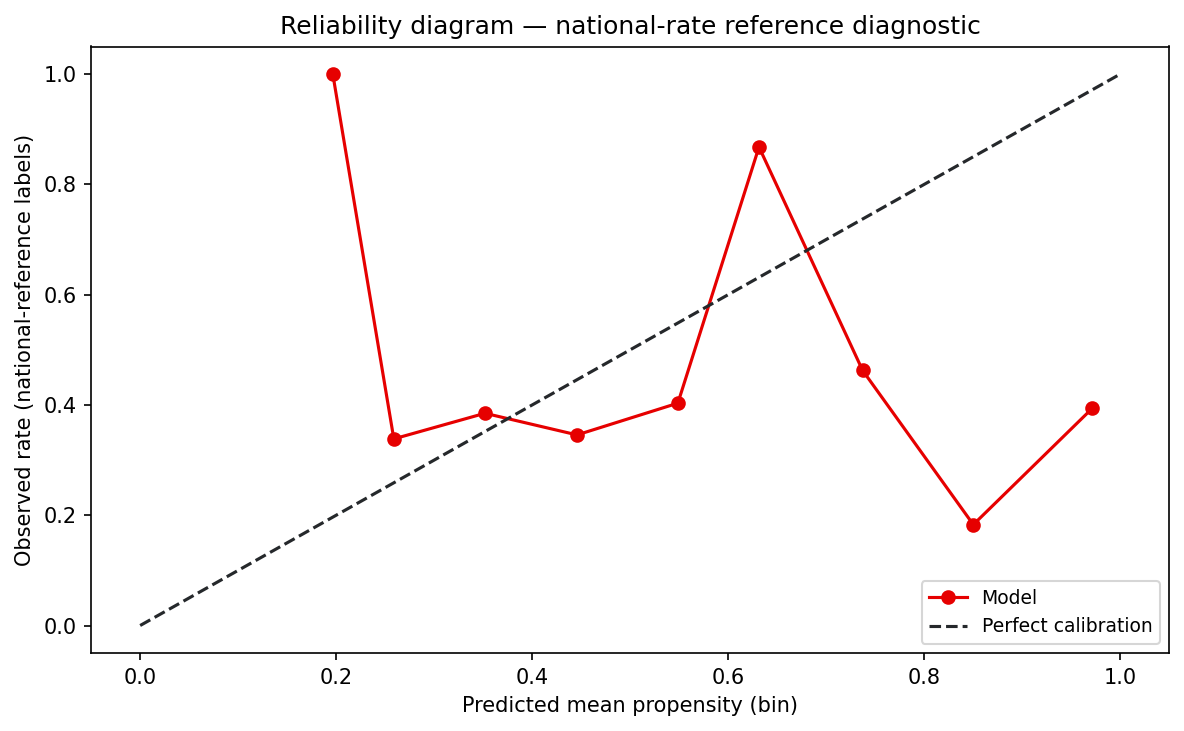
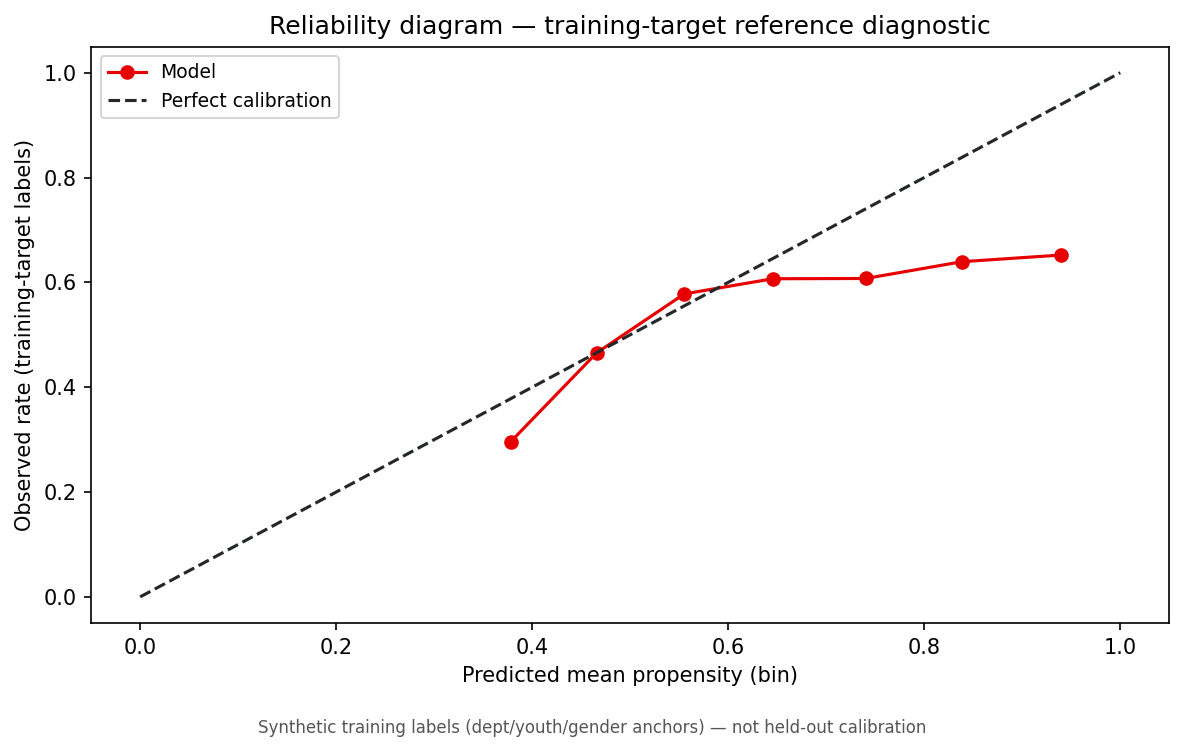
F-075: reliability diagram uses training-target labels.
Replace Bernoulli national-rate reference with synthetic_training_reference_labels
and stamp disclaimer on static reliability PNG.

diff --git a/scripts/check_reliability_label_semantics.py b/scripts/check_reliability_label_semantics.py
@@ -1,0 +1,92 @@
+#!/usr/bin/env python3
+"""Verification script for F-075: reliability diagnostics use training-target labels.
+
+Bernoulli national-rate coin-flips against dept-structured propensity scores
+produce wild bin swings (AUD-REL). Production paths must use the same synthetic
+label generator as propensity fit, and static PNGs must carry a disclaimer footer.
+"""
+
+from __future__ import annotations
+
+import re
+from pathlib import Path
+
+from _governance_check import REPO_ROOT, gate
+
+ROOT = REPO_ROOT
+DASHBOARD = ROOT / "module_a_population_segmentation" / "app" / "streamlit_dashboard.py"
+REPORT_CHARTS = ROOT / "scripts" / "generate_module_a_report_charts.py"
+RELIABILITY_PNG = ROOT / "reports" / "module_a" / "reliability_diagram.png"
+PROP_PATH = (
+    ROOT
+    / "module_a_population_segmentation"
+    / "src"
+    / "population_segmentation"
+    / "pipeline"
+    / "models"
+    / "propensity.py"
+)
+SCHEMA_PATH = (
+    ROOT
+    / "module_a_population_segmentation"
+    / "src"
+    / "population_segmentation"
+    / "evaluation"
+    / "schema_validator.py"
+)
+
+
+def _dashboard_gaps(dash: str) -> list[str]:
+    gaps: list[str] = []
+    if "synthetic_training_reference_labels" not in dash:
+        gaps.append("dashboard missing synthetic_training_reference_labels")
+    if "_make_national_reference_labels" in dash:
+        gaps.append("dashboard still defines Bernoulli national reference helper")
+    if "Bernoulli" in dash and "training-target" not in dash.lower():
+        gaps.append("dashboard still references Bernoulli without training-target framing")
+    return gaps
+
+
+def _report_charts_gaps(charts: str) -> list[str]:
+    gaps: list[str] = []
+    if "synthetic_training_reference_labels" not in charts:
+        gaps.append("generate_module_a_report_charts missing training-target labels")
+    if "rng.random(len(pop)) < national_rate" in charts:
+        gaps.append("generate_module_a_report_charts still uses Bernoulli national labels")
+    if "RELIABILITY_DISCLAIMER" not in charts:
+        gaps.append("generate_module_a_report_charts missing disclaimer constant")
+    return gaps
+
+
+def _propensity_gaps(prop_src: str) -> list[str]:
+    if "def synthetic_training_reference_labels" not in prop_src:
+        return ["propensity.py missing synthetic_training_reference_labels export"]
+    return []
+
+
+def _schema_gaps(schema: str) -> list[str]:
+    if re.search(r"youth_flag.*18.?29", schema):
+        return ["schema_validator youth_flag title still says 18-29"]
+    return []
+
+
+def main() -> int:
+    gaps = [
+        *_dashboard_gaps(DASHBOARD.read_text(encoding="utf-8")),
+        *_report_charts_gaps(REPORT_CHARTS.read_text(encoding="utf-8")),
+        *_propensity_gaps(PROP_PATH.read_text(encoding="utf-8")),
+        *_schema_gaps(SCHEMA_PATH.read_text(encoding="utf-8")),
+    ]
+    if not RELIABILITY_PNG.is_file():
+        gaps.append(
+            "missing reports/module_a/reliability_diagram.png — "
+            "run generate_module_a_report_charts.py"
+        )
+
+    ok = not gaps
+    detail = "; ".join(gaps) if gaps else "reliability paths use training-target label semantics"
+    return gate("F-075", Path(__file__).name, ok, detail)
+
+
+if __name__ == "__main__":
+    raise SystemExit(main())

diff --git a/scripts/generate_module_a_report_charts.py b/scripts/generate_module_a_report_charts.py
@@ -2,7 +2,7 @@
 """Export Module A portfolio charts to reports/module_a/.
 
 Writes:
-  - reliability_diagram.png — national-rate reference diagnostic (matplotlib)
+  - reliability_diagram.png — training-target reference diagnostic (matplotlib)
   - shap_summary.png — mean |SHAP| bar chart from pipeline propensity model
 
 Requires processed Module A artifacts (``make module-a-pipeline``).
@@ -18,7 +18,6 @@ import matplotlib
 
 matplotlib.use("Agg")
 import matplotlib.pyplot as plt
-import numpy as np
 import pandas as pd
 import yaml
 
@@ -28,16 +27,19 @@ DATA = ROOT / "data" / "processed"
 ANCHORS = ROOT / "module_a_population_segmentation" / "config" / "calibration_anchors.yaml"
 MODEL_PARAMS = ROOT / "module_a_population_segmentation" / "config" / "model_params.yaml"
 
+RELIABILITY_DISCLAIMER = (
+    "Synthetic training labels (dept/youth/gender anchors) — not held-out calibration"
+)
+
 
 def write_reliability_diagram(out_path: Path) -> None:
+    from population_segmentation.models.propensity import synthetic_training_reference_labels
     from population_segmentation.visualization.calibration_curves import reliability_frame
 
     pop = pd.read_parquet(DATA / "population_master_clean.parquet")
     with open(ANCHORS, encoding="utf-8") as f:
         anc = yaml.safe_load(f)
-    national_rate = float(anc["national"]["participation_rate"])
-    rng = np.random.default_rng(42)
-    y_true = (rng.random(len(pop)) < national_rate).astype(int)
+    y_true = synthetic_training_reference_labels(pop, anc, random_state=42)
     y_prob = pop["participation_propensity"].to_numpy()
     frame = reliability_frame(y_true, y_prob)
 
@@ -45,10 +47,11 @@ def write_reliability_diagram(out_path: Path) -> None:
     ax.plot(frame["predicted_mean"], frame["observed_mean"], "o-", label="Model", color="#e60000")
     ax.plot([0, 1], [0, 1], "--", color="#25282b", label="Perfect calibration")
     ax.set_xlabel("Predicted mean propensity (bin)")
-    ax.set_ylabel("Observed rate (national-reference labels)")
-    ax.set_title("Reliability diagram — national-rate reference diagnostic")
-    ax.legend(fontsize=9)
-    fig.tight_layout()
+    ax.set_ylabel("Observed rate (training-target labels)")
+    ax.set_title("Reliability diagram — training-target reference diagnostic")
+    ax.legend(fontsize=9, loc="upper left")
+    fig.text(0.5, 0.01, RELIABILITY_DISCLAIMER, ha="center", fontsize=8, color="#555555")
+    fig.tight_layout(rect=(0, 0.04, 1, 1))
     out_path.parent.mkdir(parents=True, exist_ok=True)
     fig.savefig(out_path, dpi=150, bbox_inches="tight")
     plt.close(fig)
